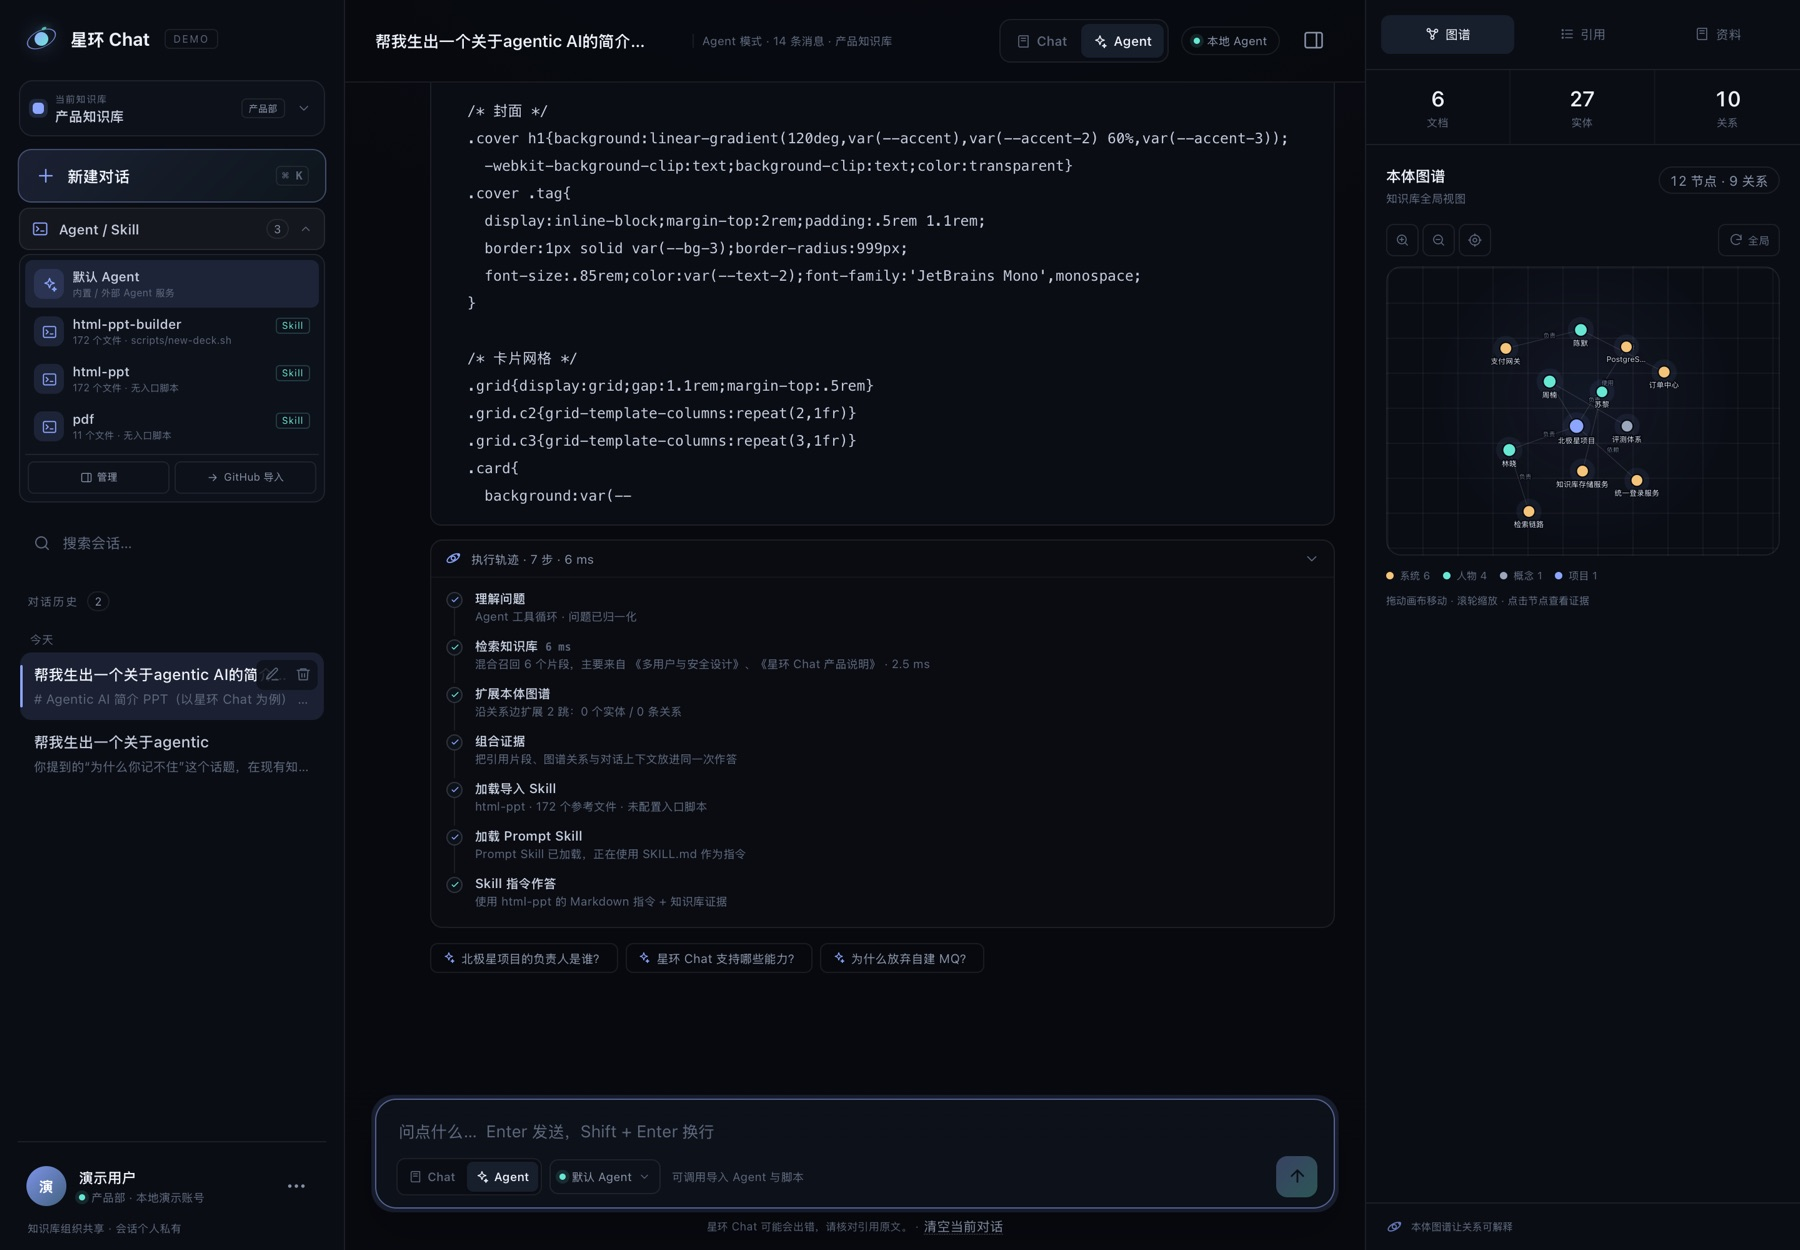
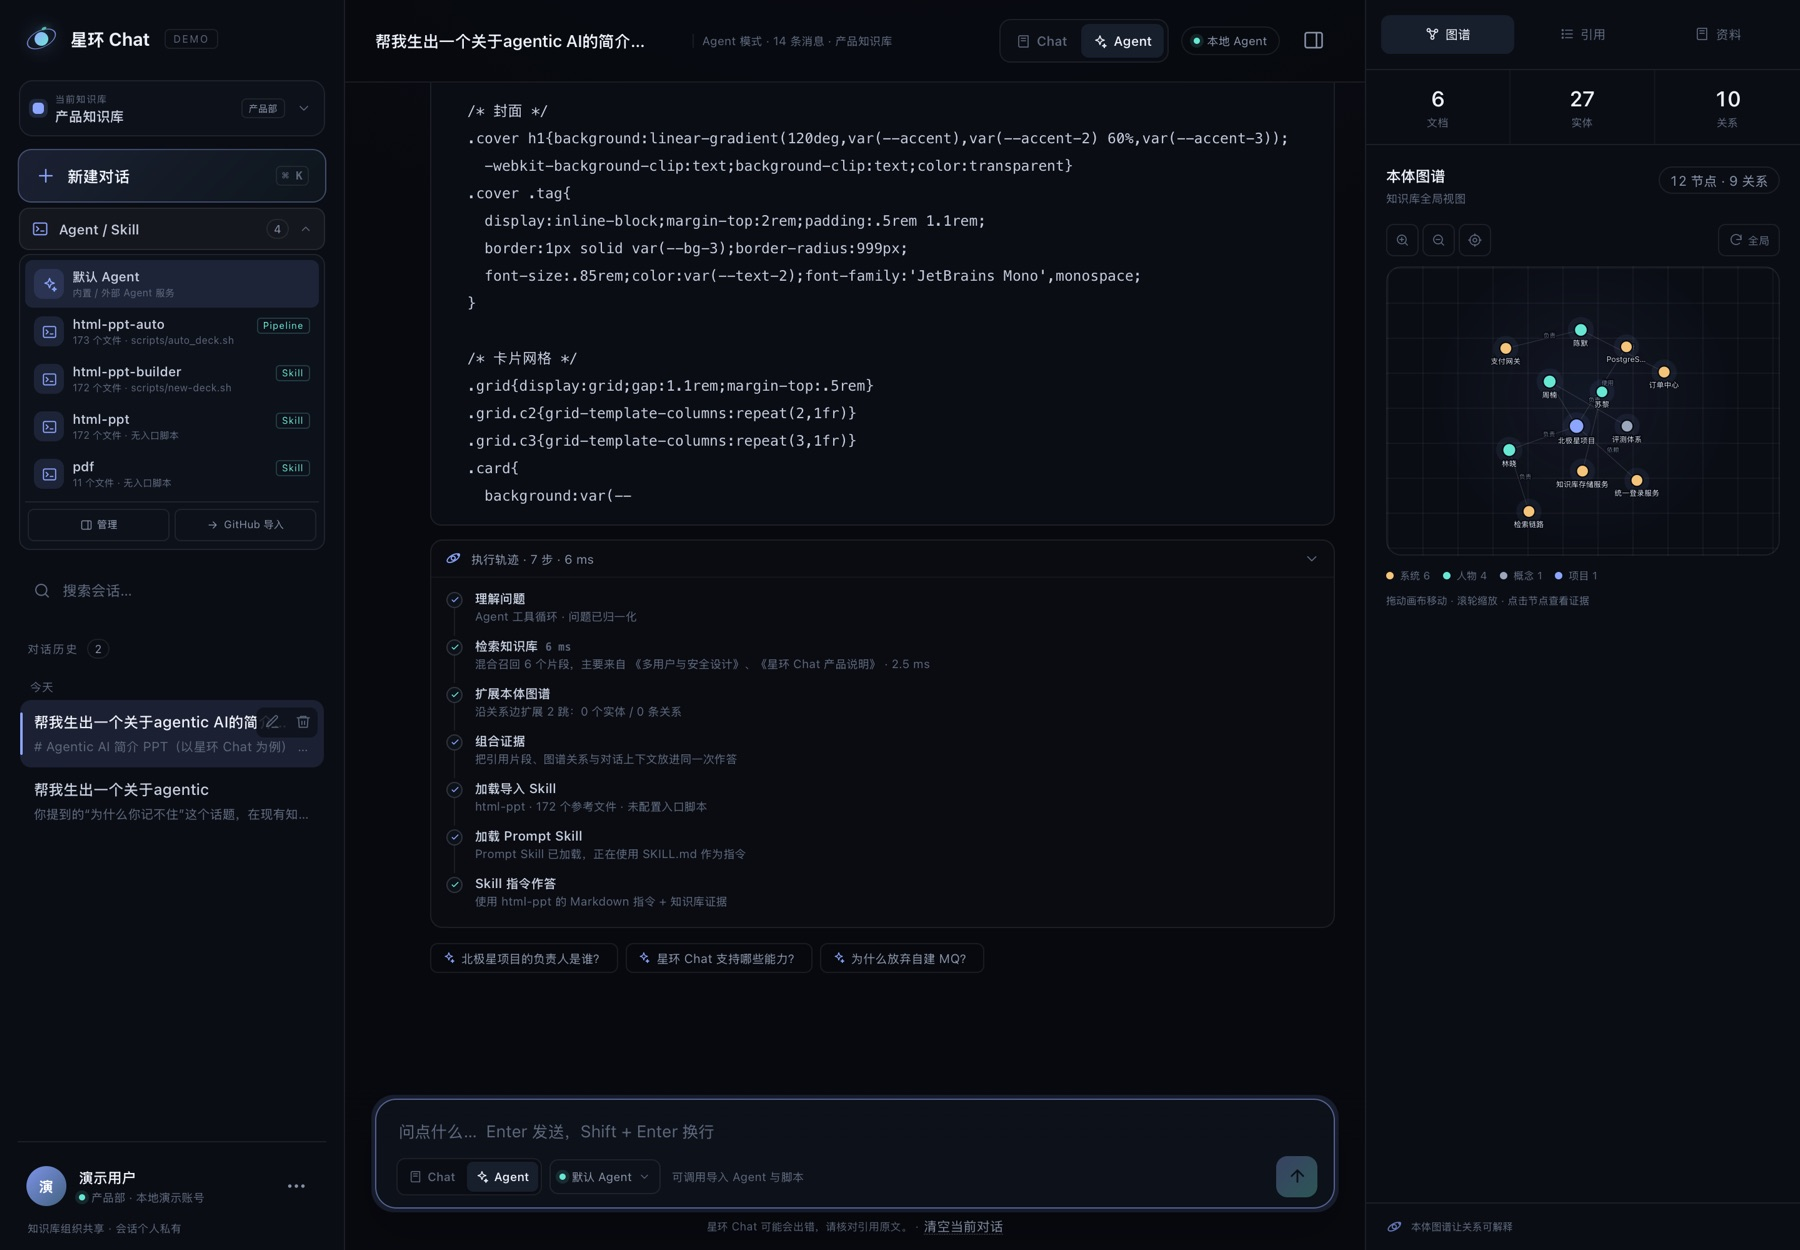
feat: chain Prompt Skill content into scaffold artifacts

diff --git a/webchat/static/app.js b/webchat/static/app.js
@@ -605,6 +605,7 @@
   }
 
   function agentKind(agent) {
+    if (agent?.pipeline) return "Pipeline";
     return agent?.kind === "skill" ? "Skill" : "Agent";
   }
 
@@ -1318,7 +1319,7 @@
     if (message.role === "assistant") {
       const meta = message.meta || {};
       if (meta.engine === "imported") {
-        head.append(badge(`导入 ${meta.agent_kind === "skill" ? "Skill" : "Agent"}`, "mint"));
+        head.append(badge(`导入 ${meta.pipeline ? "Pipeline" : meta.agent_kind === "skill" ? "Skill" : "Agent"}`, "mint"));
       }
       else if (meta.engine === "external") head.append(badge("外部 Agent", "accent"));
       else if (meta.mode === "agent") head.append(badge("Agent", "accent"));

diff --git a/webchat/agent.py b/webchat/agent.py
@@ -268,11 +268,98 @@ class AgentRunner:
                 kind="think",
             )
         )
+        pipeline = agent.pipeline
+        files = list(agent.files)
+        run_env: dict[str, str] = {}
+        generated_html = ""
+        if pipeline:
+            if kb.provider.is_mock:
+                trace.append(
+                    _step(
+                        "需要真实 LLM",
+                        "Pipeline Skill 需要先由模型生成内容，当前 mock provider 无法完成",
+                        kind="error",
+                        status="error",
+                    )
+                )
+                return AgentResult(
+                    answer=(
+                        f"### {agent.name} 已加载\n\n"
+                        "这是一个 **Pipeline Skill**：需要先用真实 LLM 生成内容，再执行脚手架脚本。\n\n"
+                        "当前知识库 provider 是 `mock`，请在 `webchat/.env` 配置 DeepSeek / ARK 后重试。"
+                    ),
+                    citations=[],
+                    trace=trace,
+                    suggestions=["如何配置 DeepSeek？"],
+                    engine="imported",
+                    mode="agent",
+                    graph=result.get("graph", {}),
+                    warnings=["Pipeline Skill 需要真实 LLM"],
+                    meta={
+                        "answer_mode": "skill_requires_llm",
+                        "confidence": 1,
+                        "kb_id": kb.info.id,
+                        "kb_name": kb.info.name,
+                        "agent_id": agent.id,
+                        "agent_name": agent.name,
+                        "agent_kind": agent.kind,
+                        "requires_model": True,
+                        "pipeline": True,
+                    },
+                )
+            try:
+                generated, _ = self._skill_answer(
+                    agent=agent,
+                    question=question,
+                    result=result,
+                    kb=kb,
+                    history=history,
+                    force_html=True,
+                )
+            except Exception as exc:  # noqa: BLE001
+                LOG.warning("pipeline content generation failed: %s", exc)
+                generated = ""
+            if not generated.strip():
+                trace.append(_step("生成内容失败", "模型没有返回内容，未执行脚手架", kind="error", status="error"))
+                return AgentResult(
+                    answer=(
+                        f"### {agent.name} 内容生成失败\n\n"
+                        "模型没有返回内容，因此没有执行脚手架。请重试，或检查 DeepSeek 配置。"
+                    ),
+                    citations=[],
+                    trace=trace,
+                    suggestions=["重试一次", "检查 DeepSeek 配置"],
+                    engine="imported",
+                    mode="agent",
+                    graph=result.get("graph", {}),
+                    warnings=["Pipeline 内容生成失败，未执行脚本"],
+                    meta={
+                        "answer_mode": "skill_pipeline_error",
+                        "confidence": 0,
+                        "kb_id": kb.info.id,
+                        "kb_name": kb.info.name,
+                        "agent_id": agent.id,
+                        "agent_name": agent.name,
+                        "agent_kind": agent.kind,
+                        "pipeline": True,
+                    },
+                )
+            else:
+                generated_html = self._html_from_text(generated)
+                files.append({"name": "_generated_content.html", "content": generated_html})
+                run_env["AGENT_CONTENT_FILE"] = "_generated_content.html"
+                trace.append(
+                    _step(
+                        "生成 PPT 内容",
+                        f"模型生成 {len(generated_html)} 字符 HTML，准备写入脚手架",
+                        kind="answer",
+                    )
+                )
         run_id = new_id("run")
         execution = self.sandbox.run(
             RunRequest(
                 run_id=run_id,
-                files=agent.files,
+                files=files,
                 entrypoint=agent.entrypoint,
                 runtime=agent.runtime,
                 timeout=agent.timeout,
@@ -285,6 +372,7 @@ class AgentRunner:
                 agent_name=agent.name,
                 agent_description=agent.description,
                 agent_markdown=agent.markdown,
+                env=run_env,
                 allow_exec=self.settings.allow_script_exec,
             )
         ).to_dict()
@@ -320,6 +408,41 @@ class AgentRunner:
                 warnings.append(f"脚本以 exit={exit_code} 退出，已回退到知识库回答")
             elif stdout:
                 used_script = True
+                if pipeline:
+                    trace.append(
+                        _step(
+                            "生成 PPT 文件",
+                            f"脚手架执行完成 · {len(execution.get('artifacts') or [])} 个产物",
+                            kind="answer",
+                        )
+                    )
+                    return AgentResult(
+                        answer=(
+                            f"已根据 **{agent.name}** 的 Skill 指令生成内容，并执行 "
+                            f"`{agent.entrypoint}` 写入脚手架。\n\n"
+                            "生成的文件在下方「生成文件」中，下载 `workspace.zip` 后解压，打开 "
+                            "`examples/<名称>/index.html` 即可查看。"
+                        ),
+                        citations=[],
+                        trace=trace,
+                        suggestions=kb.suggestions(question, result),
+                        engine="imported",
+                        mode="agent",
+                        graph=result.get("graph", {}),
+                        warnings=warnings,
+                        meta={
+                            "answer_mode": "skill_pipeline",
+                            "confidence": 0.8,
+                            "timings": result.get("stats", {}).get("timings", {}),
+                            "kb_id": kb.info.id,
+                            "kb_name": kb.info.name,
+                            "agent_id": agent.id,
+                            "agent_name": agent.name,
+                            "agent_kind": agent.kind,
+                            "pipeline": True,
+                            "execution": self._execution_meta(execution),
+                        },
+                    )
                 indices = cited_indices(stdout, len(result.get("hits", [])))
                 citations = self._citations_from_indices(indices, result)
                 trace.append(
@@ -502,6 +625,25 @@ class AgentRunner:
         )
 
     @staticmethod
+    def _html_from_text(text: str) -> str:
+        import re
+        import html as html_lib
+
+        fenced = re.search(r"```(?:html)?\s*(.*?)```", text, re.S | re.I)
+        candidate = (fenced.group(1) if fenced else text).strip()
+        lower = candidate.lower()
+        start = lower.find("<!doctype")
+        if start < 0:
+            start = lower.find("<html")
+        if start >= 0:
+            return candidate[start:]
+        return (
+            "<!DOCTYPE html><html lang=\"zh-CN\"><head><meta charset=\"utf-8\">"
+            "<title>Generated Deck</title></head><body>"
+            f"<pre>{html_lib.escape(candidate)}</pre></body></html>"
+        )
+
+    @staticmethod
     def _skill_answer(
         *,
         agent: ImportedAgent,
@@ -509,6 +651,7 @@ class AgentRunner:
         result: dict[str, Any],
         kb: KnowledgeService,
         history: list[dict[str, str]],
+        force_html: bool = False,
     ) -> tuple[str, list[dict[str, Any]]]:
         hits = result.get("hits", [])[:6]
         if not hits:
@@ -529,6 +672,12 @@ class AgentRunner:
             "只根据提供的知识库证据回答，不要编造事实。引用证据时使用 [编号]。\n\n"
             f"# Skill: {agent.name}\n{agent.markdown}"
         )
+        if force_html:
+            system += (
+                "\n\n本次任务必须产出可运行的完整 HTML 文档："
+                "从 <!DOCTYPE html> 开始，包含 <html>、<head>、<body>、内联 CSS；"
+                "不要输出 Markdown 代码围栏，不要输出解释或前后缀。"
+            )
         history_text = ""
         for message in history[-8:]:
             role = "用户" if message.get("role") == "user" else "助手"
@@ -539,9 +688,11 @@ class AgentRunner:
             f"用户问题：{question}\n\n"
             + (f"对话历史：\n{history_text}\n" if history_text else "")
             + "知识库证据：\n" + "\n\n".join(evidence) + "\n\n"
-            "请用中文简洁回答，并在句末标注引用编号。"
+            + ("请直接输出完整 HTML 文档，不要使用 Markdown 围栏。" if force_html else "请用中文简洁回答，并在句末标注引用编号。")
         )
-        text = kb.provider.chat.complete(system, user, max_tokens=1000)
+        text = kb.provider.chat.complete(
+            system, user, max_tokens=3000 if force_html else 1000
+        )
         text = (text or "").strip()
         if not text:
             return "", []

diff --git a/webchat/tests/test_api.py b/webchat/tests/test_api.py
@@ -358,6 +358,28 @@ print("artifact written")
             client.delete(f"/api/agents/{agent['id']}")
             client.delete(f"/api/conversations/{conv['id']}")
 
+    def test_pipeline_flag_and_html_extraction(self):
+        from webchat.agent import AgentRunner
+
+        self.assertTrue(
+            AgentRunner._html_from_text("```html\n<!DOCTYPE html><html><body>x</body></html>\n```").startswith("<!DOCTYPE html>")
+        )
+        self.assertIn("<html", AgentRunner._html_from_text("<!DOCTYPE html><html><body>x</body></html>"))
+        with TestClient(self.app) as client:
+            self.login(client)
+            created = client.post(
+                "/api/agents",
+                json={
+                    "kind": "skill",
+                    "markdown": "---\nname: Pipeline Demo\npipeline: true\n---\n# Pipeline Demo\n",
+                    "files": [{"name": "scripts/run.sh", "content": "echo ok\n"}],
+                    "entrypoint": "scripts/run.sh",
+                },
+            )
+            self.assertEqual(created.status_code, 200, created.text)
+            self.assertTrue(created.json()["agent"]["pipeline"])
+            client.delete(f"/api/agents/{created.json()['agent']['id']}")
+
     def test_multi_turn_history_is_in_prompt_and_followup_query(self):
         from kb.answer import build_prompt
         from kb.retrieval import ChunkHit, RetrievalResult

diff --git a/webchat/agent_defs.py b/webchat/agent_defs.py
@@ -61,6 +61,12 @@ class ImportedAgent:
     source_ref: str = ""
     source_path: str = ""
 
+    @property
+    def pipeline(self) -> bool:
+        """Use the LLM to generate content before running the entrypoint."""
+        meta, _ = _frontmatter(self.markdown)
+        return str(meta.get("pipeline", "")).strip().lower() in {"1", "true", "yes", "on"}
+
     def public(self) -> dict[str, Any]:
         return {
             "id": self.id,
@@ -75,6 +81,7 @@ class ImportedAgent:
             "source_url": self.source_url,
             "source_ref": self.source_ref,
             "source_path": self.source_path,
+            "pipeline": self.pipeline,
         }
 
 

diff --git a/webchat/sandbox/local.py b/webchat/sandbox/local.py
@@ -143,6 +143,7 @@ class LocalSubprocessRunner:
                 "PYTHONUNBUFFERED": "1",
                 "NODE_NO_WARNINGS": "1",
             }
+            env.update({str(k): str(v) for k, v in request.env.items()})
             proc = subprocess.Popen(
                 command,
                 cwd=str(input_dir),

diff --git a/webchat/sandbox/__init__.py b/webchat/sandbox/__init__.py
@@ -34,6 +34,7 @@ class RunRequest:
     agent_name: str
     agent_description: str
     agent_markdown: str
+    env: dict[str, str] = field(default_factory=dict)
     allow_exec: bool = True
 
 

diff --git a/webchat/README.md b/webchat/README.md
@@ -188,6 +188,34 @@ GitHub Skill 通常没有单一入口脚本，所以导入后：
 
 例如把 `html-ppt` 的 `scripts/new-deck.sh` 配成 entrypoint，输入一个 deck 名称，就会执行脚手架并生成包含 skill 资源的 `workspace.zip`。Demo 里另建了 `html-ppt-builder` 演示这种用法。
 
+### Pipeline：Prompt Skill + 脚本产物
+
+![Pipeline 生成与下载](screenshots/pipeline.jpg)
+
+`html-ppt-auto` 把内容生成和文件生成串起来：
+
+```text
+Prompt Skill 读取 SKILL.md
+  → DeepSeek 生成完整 HTML
+  → 写入 _generated_content.html
+  → 执行 scripts/auto_deck.sh
+  → new-deck.sh 创建脚手架
+  → 用生成的 HTML 覆盖 index.html
+  → workspace.zip 作为可下载产物
+```
+
+启用方式是在 Markdown frontmatter 中声明：
+
+```yaml
+pipeline: true
+```
+
+并配置一个读取 `AGENT_CONTENT_FILE` 的 entrypoint。Pipeline Agent 的 trace 会显示：
+
+```text
+生成 PPT 内容 → 执行脚本 → 生成 PPT 文件
+```
+
 ### 本地上传
 
 在「Agent / Skill 管理」里也可以上传：
@@ -459,9 +487,9 @@ cd xinghuan-chat
 .venv/bin/python -m unittest webchat.tests.test_api -v
 ```
 
-覆盖：登录 / 错误密码 / 登出、注册校验、部门知识库访问控制、知识库维度的会话隔离、SSE 流式回答与持久化、自动标题、双账号会话隔离、多轮历史进入提示词 / 追问检索、知识图谱与实体详情、Agent/Skill 导入、嵌套脚本路径、GitHub URL 解析、脚本执行 / 产物下载 / 用户隔离。
+覆盖：登录 / 错误密码 / 登出、注册校验、部门知识库访问控制、知识库维度的会话隔离、SSE 流式回答与持久化、自动标题、双账号会话隔离、多轮历史进入提示词 / 追问检索、知识图谱与实体详情、Agent/Skill 导入、嵌套脚本路径、GitHub URL 解析、脚本执行 / 产物下载 / 用户隔离 / Pipeline 标志与 HTML 提取。
 
-> 当前共 13 项测试，全部通过。
+> 当前共 14 项测试，全部通过。
 
 ---
 
